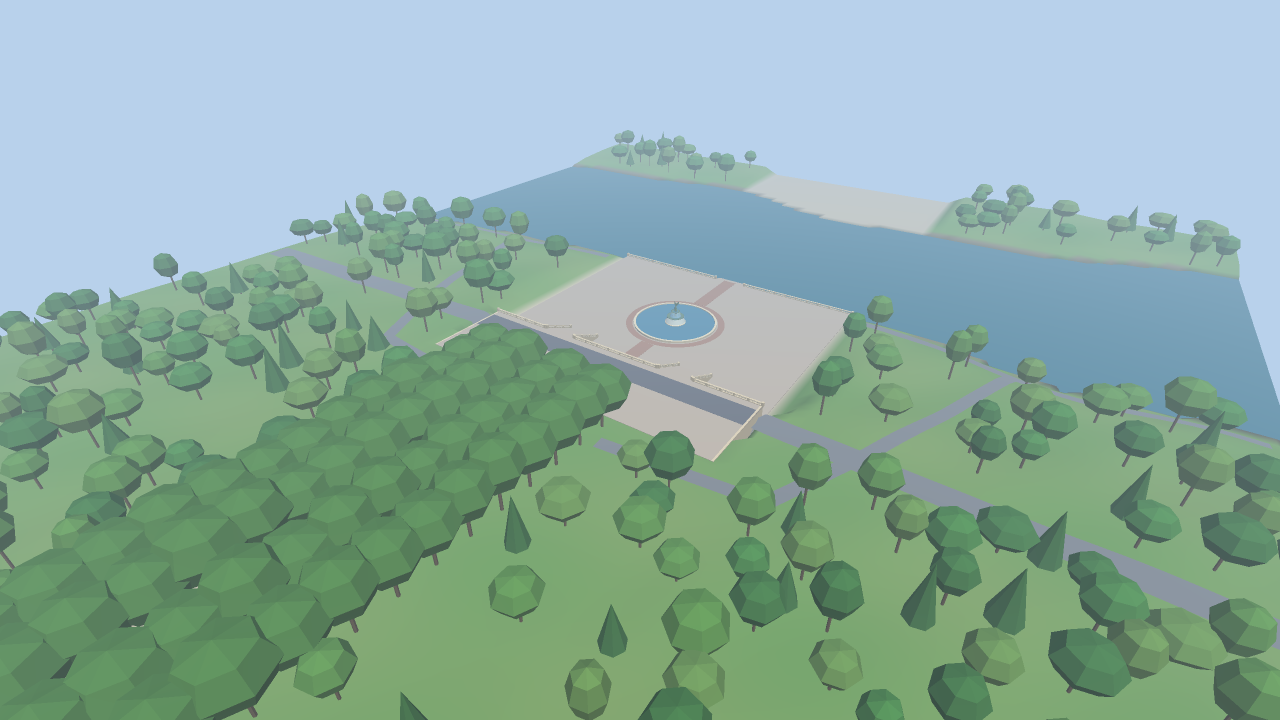
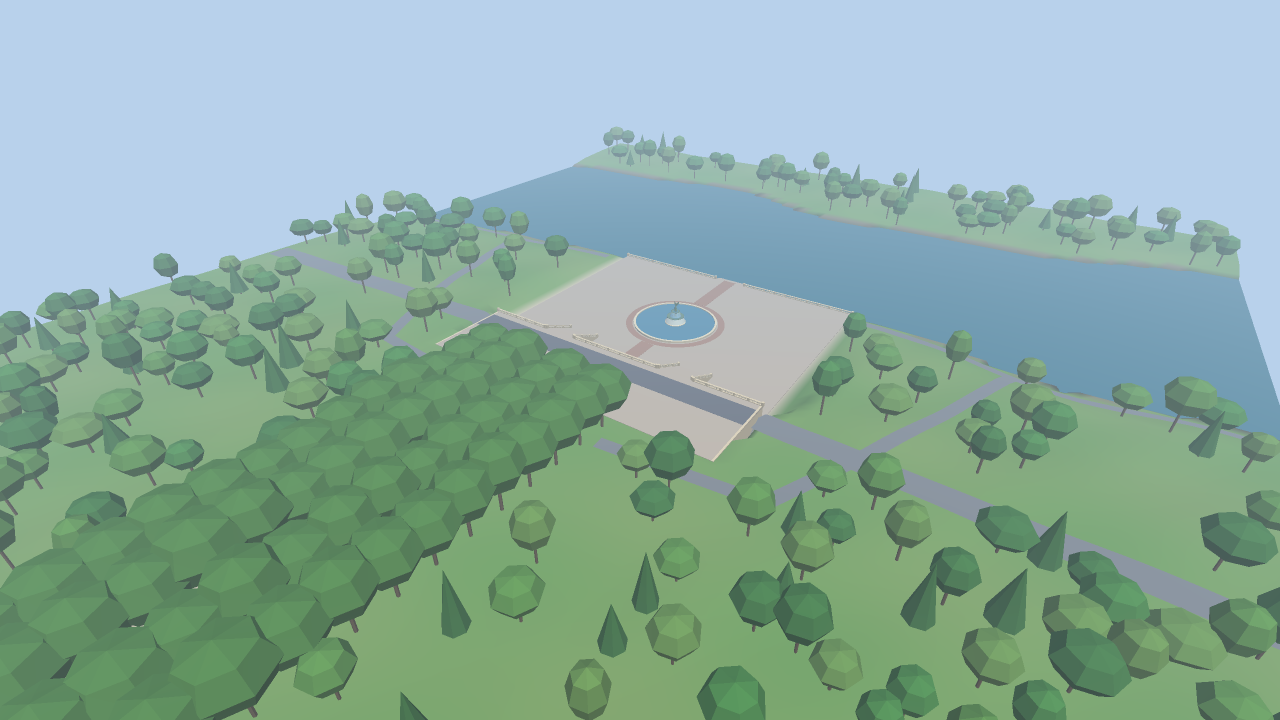
Refresh integrated evidence against landscape 7933b1c (far-bank fix)
Assisted-by: Claude Code:claude-opus-5-5 (Karma42 agent cp3d-builder)

diff --git a/docs/milestone-1.md b/docs/milestone-1.md
@@ -39,10 +39,10 @@ Each preview line printed by `npm run preview` includes the matching viewer URL,
 
 ## Results
 
-These were measured on 2026-10-10 on a local merge of main with #2 @ fe5d555, #4 @ 2f6b48e, #3 @ 5f371e0 and #6.
+These were measured on 2026-10-10 on a local merge of main with #2 @ 7933b1c, #4 @ 2f6b48e, #3 @ 5f371e0 and #6.
 
 - `npm test`: **65/65 pass, 0 skipped**. That includes the viewer's integration tests against the real `src/scene/index.js`: walk heights on the plaza, deck and upper terrace; walkers not tunnelling across the Lake; geometry visible in every viewpoint.
-- Scene: **14 meshes, 138,554 vertices, 86,910 triangles, 5.40 MB of GPU buffers**, built and normalized in about 56 ms in Node.
+- Scene: **14 meshes, 138,344 vertices, 86,840 triangles, 5.39 MB of GPU buffers**, built and normalized in about 56 ms in Node.
   - Landscape: 49k triangles, 88 Mall elms and 420 scattered trees.
   - Terrace and fountain: 37.5k triangles.
 
@@ -69,6 +69,7 @@ These were measured on 2026-10-10 on a local merge of main with #2 @ fe5d555, #4
 | Terrain filled the arcade arches and the Mall stair cut | landscape | fe5d555 (terrain at or below -0.2 inside the footprint, per #7) |
 | A walker could tunnel across the Lake to the new far bank in one long step | viewer | 5f371e0 (0.5 m sub-steps) |
 | The angel's lily covered her face | terrace | 2f6b48e |
+| A pale strip on the far bank (the plaza flattening had no north limit) | landscape | d51f7fa |
 
 ## Not verified / known limitations
 
@@ -77,4 +78,3 @@ These were measured on 2026-10-10 on a local merge of main with #2 @ fe5d555, #4
 - Dimensions are approximate and the geography has not been checked against primary sources.
 - Walk mode follows ground height and stays out of the Lake, but has no wall collisions.
 - The scene edge is visible from high orbit views (open item on #7).
-- A pale strip on the far (Ramble) bank around x 0..60 shows in the overview. It has been reported to landscape and is still unexplained.
